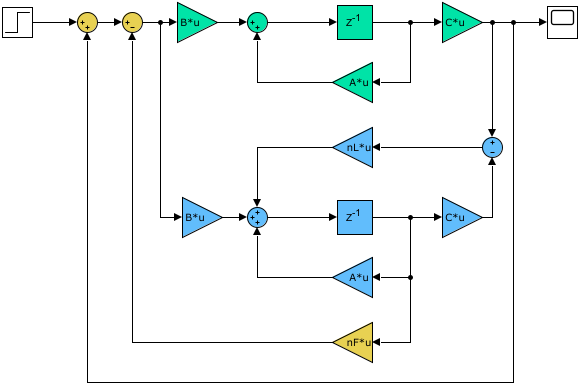
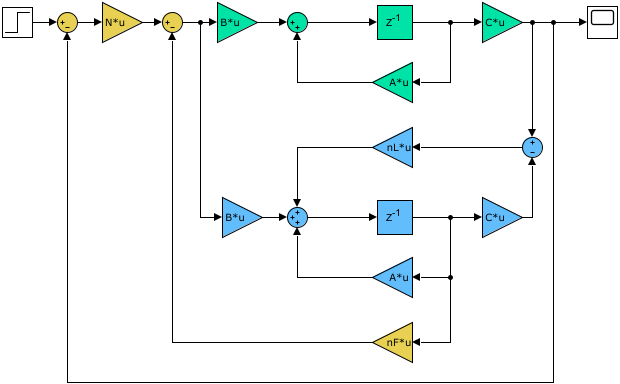
Add exsim6 solved expressions

diff --git a/src/tex/exsim6.tex b/src/tex/exsim6.tex
@@ -30,6 +30,113 @@ sys.path.insert(1, '../../')
 from src.python.exsim6 import *
 \end{sympycode}
 
+Dado o sistema descrito por
+
+$$ x[k+1] = \sympy{G} x[x] + \sympy{H} u[k] $$
+$$ y[k] = \sympy{C} x[x] $$
+
+Onde $G=\sympy{G}$, $H=\sympy{H}$ e $C=\sympy{C}$.
+
+\subsection{Calculo ganho feedback}
+
+Supondo $F = \sympy{F}$
+
+$$A_{ma} = \sympy{z*eye(2)} - \sympy{G} + \sympy{H}\sympy{F}$$
+$$A_{ma} = \sympy{z*eye(2)} - \sympy{G -H*F}$$
+$$A_{ma} = \sympy{z*eye(2) - (G -H*F)}$$
+
+Logo temos que o polinômio característico para o sistema com realimentação é dado por 
+
+$$\phi(z) = det\sympy{Ama}$$
+$$\phi(z) = \sympy{det(Ama)}$$
+
+Temos que o polinômio caracteristico desejado é dado por
+
+$$\phi_d(z) = \sympy{polyDesired}$$
+$$\phi_d(z) = \sympy{simplify(polyDesired)}$$
+
+Se $\phi(z) = \phi_d(z)$ logo
+
+$$
+\left\{
+    \begin{array}{l}
+        \sympy{polyPlant.coeff(z,0)} = \sympy{polyDesired.coeff(z,0)}\\
+        \sympy{polyPlant.coeff(z,1)} = \sympy{polyDesired.coeff(z,1)}\\
+        \sympy{polyPlant.coeff(z,2)} = \sympy{polyDesired.coeff(z,2)}\\
+    \end{array}
+\right.
+$$
+
+Resolvendo o sistema temos $f_1 = \sympy{nf1} $ e $f_2 = \sympy{nf2}$
+
+\subsection{Calculo ganho observador polos iguais}
+
+Supondo $L = \sympy{L}$
+
+$$A_{ma} = \sympy{z*eye(2)} - \sympy{G} + \sympy{L}\sympy{C}$$
+$$A_{ma} = \sympy{z*eye(2)} - \sympy{G -L*C}$$
+$$A_{ma} = \sympy{z*eye(2) - (G -L*C)}$$
+
+Logo temos que o polinômio característico para o sistema com realimentação é dado por 
+
+$$\phi(z) = det\sympy{Amo}$$
+$$\phi(z) = \sympy{det(Amo)}$$
+$$\phi(z) = \sympy{collect(det(Amo),z)}$$
+
+Temos que o polinômio caracteristico desejado é dado por
+
+$$\phi_d(z) = \sympy{polyObsDesired}$$
+$$\phi_d(z) = \sympy{simplify(polyObsDesired)}$$
+
+Se $\phi(z) = \phi_d(z)$ logo
+
+$$
+\left\{
+    \begin{array}{l}
+        \sympy{polyObs.coeff(z,0)} = \sympy{polyObsDesired.coeff(z,0)}\\
+        \sympy{polyObs.coeff(z,1)} = \sympy{polyObsDesired.coeff(z,1)}\\
+        \sympy{polyObs.coeff(z,2)} = \sympy{polyObsDesired.coeff(z,2)}\\
+    \end{array}
+\right.
+$$
+
+Resolvendo o sistema temos $l_1 = \sympy{nl1} $ e $l_2 = \sympy{nl2}$
+
+\subsection{Calculo ganho observador polos mais rápidos}
+
+Supondo $L = \sympy{L}$
+
+$$A_{ma} = \sympy{z*eye(2)} - \sympy{G} + \sympy{L}\sympy{C}$$
+$$A_{ma} = \sympy{z*eye(2)} - \sympy{G -L*C}$$
+$$A_{ma} = \sympy{z*eye(2) - (G -L*C)}$$
+
+Logo temos que o polinômio característico para o sistema com realimentação é dado por 
+
+$$\phi(z) = det\sympy{Amo}$$
+$$\phi(z) = \sympy{collect(det(Amo),z)}$$
+
+Temos que o polinômio caracteristico desejado é dado por
+
+$$\phi_d(z) = \sympy{polyObsDesired2}$$
+$$\phi_d(z) = \sympy{simplify(polyObsDesired2)}$$
+
+Se $\phi(z) = \phi_d(z)$ logo
+
+$$
+\left\{
+    \begin{array}{l}
+        \sympy{polyObs.coeff(z,0)} = \sympy{polyObsDesired2.coeff(z,0)}\\
+        \sympy{polyObs.coeff(z,1)} = \sympy{polyObsDesired2.coeff(z,1)}\\
+        \sympy{polyObs.coeff(z,2)} = \sympy{polyObsDesired2.coeff(z,2)}\\
+    \end{array}
+\right.
+$$
+
+Resolvendo o sistema temos $l_1 = \sympy{nl21} $ e $l_2 = \sympy{nl22}$
+
+\subsection{Simulação Sistema}
+
+Para simular o sistema sem o observador foi utilizado a seguinte representação da planta
 
 \begin{figure}[H]
     \centering
@@ -37,11 +144,23 @@ from src.python.exsim6 import *
     \caption{Diagrama de Blocos do Sistema no Simulink do Controlador sem Observador - Planta exsim6}
 \end{figure}
 
+Para a versão com observador foi utilizado a seguinte versão
+
 \begin{figure}[H]
     \centering
     \includegraphics[width=0.9\linewidth]{img/exsim6_ss_observer_model.png}
     \caption{Diagrama de Blocos do Sistema no Simulink do Controlador com Observador - Planta exsim6}
 \end{figure}
+
+\subsubsection{Sistema sem observador}
+
+Como efeito para o sistema sem observador foram obtidas as seguintes respostas
+
+\subsubsection{Sistema com observador com polos iguais}
+
+Como efeito para o sistema sem observador foram obtidas as seguintes respostas
+
+\subsubsection{Sistema com observador com polos mais rápidos}
 
 \section{Conclusão}
 

diff --git a/src/python/exsim6.py b/src/python/exsim6.py
@@ -6,66 +6,53 @@ Laboratory Experiment 6 - Script
 
 from sympy import *
 
-def simplifyFraction( G, z = symbols("z",complex=True) ):
-    """
-    Expand numerator and denominator from given fraction
-    """
-    num,den = fraction(G.expand().simplify())
-    num = Poly(num,z)
-    den = Poly(den,z)
-    
-    return (num/den)
-
-
-def partfrac( G, z = symbols("z",complex=True) ):
-    """
-    Split Fraction into several factors using residues theorem
-    """
-    # Find Poles
-    poles = solve(sympy.fraction(G.expand().simplify())[1],s)
-
-    # Find Residues
-    Gp = 0
-    for p in poles:
-        Gp = Gp + (G*(z-p)).subs(z,p)/(z-p)
-
-    return Gp
-
-def roundExpr( expr, num_digits=4 ):
-    """
-    Round Every Number in an expression
-    """
-    return expr.xreplace({n : round(n, num_digits) for n in expr.atoms(Number)})
-
-
-def simboliczpk( zeros, poles, gain, z = symbols("z",complex=True) ):
-    """
-    Generate Transfer Function in from the zeros, poles
-    """
-    Gzeros = prod([z-a for a in zeros])
-    Gpoles = prod([z-a for a in poles])
-    G = (gain*Gzeros)/(Gpoles)
-
-    return G
-
-
-def canonicalFraction( expr, z = symbols("z",complex=True) ):
-    """
-    Rewrite Fraction in the zpk form
-    """
-    num,den = fraction( expr )
-    num = prod([z-a for a in solve(num,z)])
-    den = prod([z-a for a in solve(den,z)])
-    gain = (expr*(den/num)).subs(z,0)
-
-    return gain*(num/den)
-
-
 printing.printer.Printer().set_global_settings(precision=3)
 
 # Symbols
 s = symbols("s",complex=True)
 z = symbols("z",complex=True)
+f1,f2 = symbols("f_1 f_2",complex=True)
+l1,l2 = symbols("l_1 l_2",complex=True)
 
 Ts = 1
+
+# Define System
+G = Matrix([[0, 1], [-0.16, -1]])
+H = Matrix([0,1])
+C = Matrix([[1,0]])
+I = eye(2)
+
+# Controler and Observer Gain
+F = Matrix([[f1,f2]])
+L = Matrix([l1,l2])
+
+Ama = z*I - (G - H*F)
+Amo = z*I - (G - L*C)
+
+# Characterict Equation
+polyPlant = det(Ama)
+polyObs = det(Amo)
+
+# Desired Characterict Equation
+polyDesired = simplify((z-complex(0.5,0.5))*(z-complex(0.5,-0.5)))
+polyObsDesired = simplify((z-complex(0.5,0.5))*(z-complex(0.5,-0.5)))
+polyObsDesired2 = simplify((z-complex(0.05,0.05))*(z-complex(0.05,-0.05)))
+
+# Solve Linear System for F
+eq1F = Eq(polyPlant.coeff(z),polyDesired.coeff(z))
+eq2F = Eq(polyPlant.coeff(z,0),polyDesired.coeff(z,0))
+nF = linsolve([eq1F,eq2F],(f1,f2))
+(nf1,nf2) = tuple(*nF)
+
+# Solve Linear System for L
+eq1L = Eq(polyObs.coeff(z),polyObsDesired.coeff(z))
+eq2L = Eq(polyObs.coeff(z,0),polyObsDesired.coeff(z,0))
+nL = linsolve([eq1L,eq2L],(l1,l2))
+(nl1,nl2) = tuple(*nL)
+
+# Solve Linear System for L2
+eq1L2 = Eq(polyObs.coeff(z),polyObsDesired2.coeff(z))
+eq2L2 = Eq(polyObs.coeff(z,0),polyObsDesired2.coeff(z,0))
+nL2 = linsolve([eq1L2,eq2L2],(l1,l2))
+(nl21,nl22) = tuple(*nL2)
 

diff --git a/src/matlab/exsim6/exsim6.m b/src/matlab/exsim6/exsim6.m
@@ -25,6 +25,7 @@ F = [F1 F2]
 L1 = sym('L_1')
 L2 = sym('L_2')
 L = [L1;L2]
+N = sym("N")
 
 % Find Characterist Eq.
 I = eye(size(A))
@@ -43,6 +44,21 @@ polyObsDesired = poly(10*desiredPoles)
 polyL = (polyObs - polyObsDesired)
 [m,v] = equationsToMatrix(polyL(1:end-1),L);
 nL = double(linsolve(m,v))
+
+% Closed Loop Space State Expression
+Amf = A - B*nF - nL*C - B*N*C
+Bmf = B*N
+Cmf = C
+
+% Find Outer Loop Characteristic Equation
+I = eye(size(Amf));
+polyMf = flip(coeffs(det(z*I-Amf),z))
+
+% Find Desired Poles
+polesDesired = [complex(0.5,-0.5),complex(0.5,0.5)];
+polyDesired = poly(polesDesired)
+
+N = 1
 
 % Run Simulation
 modelFileName = 'exsim6_ss_model'
